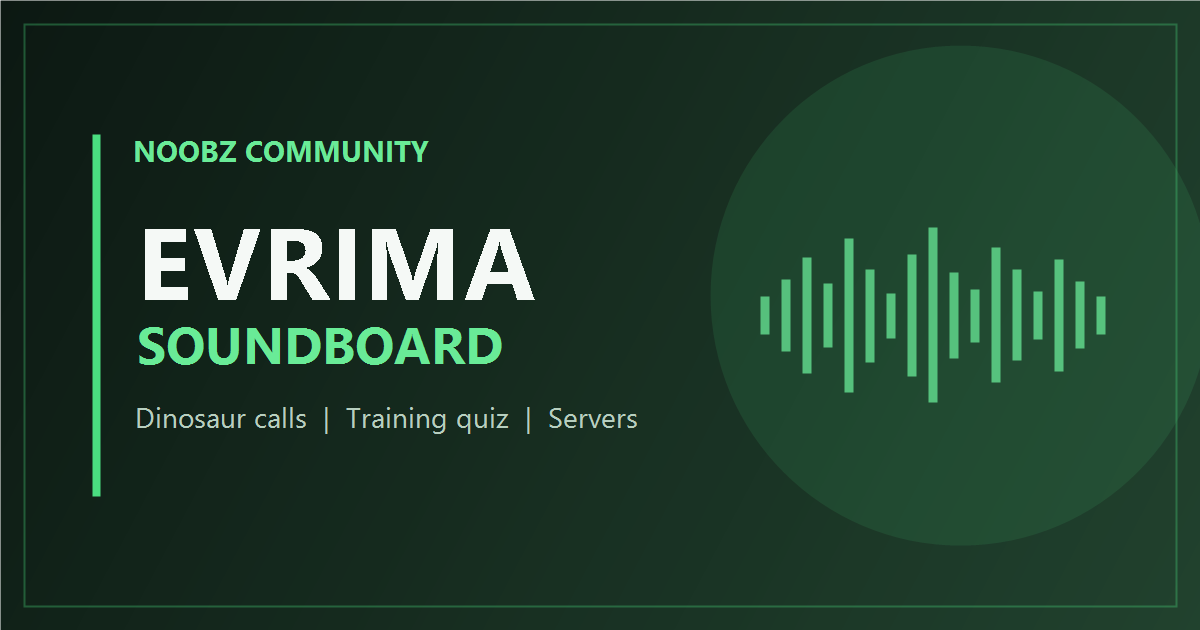
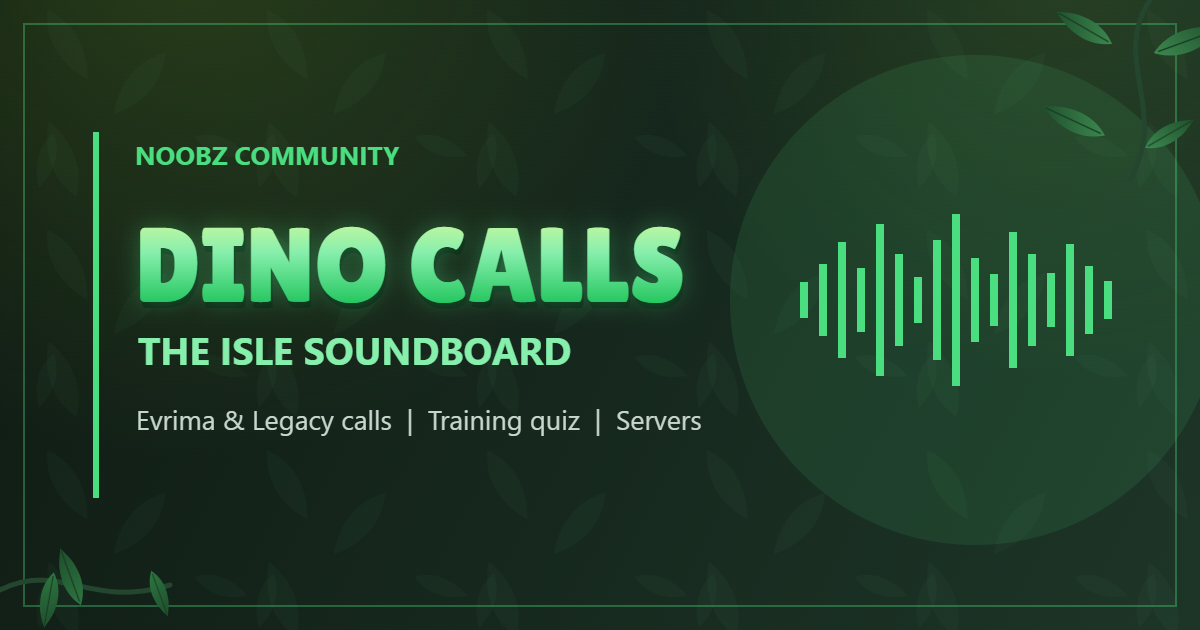
Add Legacy training quiz; new Dino Calls link preview image
- Legacy now has Soundboard / Training Quiz tabs like Evrima; the quiz screen
  is shared and switches title, groups (Herbivores/Carnivores/AI) and stages
  (Juvenile/Sub-Adult/Adult) to the active game
- Questions are picked species-first so dinos with many recorded calls
  (Legacy Rex has ~100) don't dominate; applies to both games
- Game and soundboard tabs are locked while a quiz runs; clear message when
  the chosen groups/stages have no calls
- og-image.png redrawn as "Dino Calls" in the jungle style

diff --git a/index.html b/index.html
@@ -49,7 +49,7 @@
         .game-tab:disabled { opacity: 0.4; cursor: not-allowed; }
         .game-section { display: none; flex-grow: 1; }
         .game-section.active { display: block; }
-        body.quiz-open:not(.legacy-open) .controls-bar { display: none; }
+        body.quiz-open .controls-bar { display: none; }
         body.legacy-open .evrima-only { display: none !important; }
 
         .tab-container { display: flex; gap: 10px; margin: 0 auto 20px; max-width: 1220px; width: 100%; }
@@ -431,7 +431,7 @@
     <button class="game-tab" id="game-legacy">Legacy</button>
 </div>
 
-<div class="tab-container evrima-only">
+<div class="tab-container">
     <button class="tab-btn active" id="tab-soundboard">Soundboard</button>
     <button class="tab-btn" id="tab-quiz">Training Quiz</button>
 </div>
@@ -483,10 +483,27 @@
     </div>
 </div>
 
+</div>
+
+<div id="legacy-game" class="game-section">
+    <div class="soundboard-grid" id="legacy-grid">
+        <div class="column-wrapper herb-column" id="legacy-herb-container">
+            <div class="column-title">Herbivores</div>
+        </div>
+        <div class="column-wrapper carn-column" id="legacy-carn-container">
+            <div class="column-title">Carnivores</div>
+        </div>
+        <div class="column-wrapper omni-column" id="legacy-ai-container">
+            <div class="column-title">AI</div>
+        </div>
+    </div>
+</div>
+
+<!-- Shared training quiz: configured for whichever game is active -->
 <div id="quiz-view" class="view-section">
     <div class="quiz-container">
         <div id="quiz-setup" class="quiz-setup">
-            <h2 style="color: #ffffff; font-size: 24px; text-transform: uppercase;">Evrima Call Training</h2>
+            <h2 id="quiz-title" style="color: #ffffff; font-size: 24px; text-transform: uppercase;">Evrima Call Training</h2>
             <p style="color: #728f80; margin-bottom: 10px;">Configure your training and press <strong>Start Quiz</strong> when ready.</p>
             <div class="quiz-setting-row">
                 <div class="quiz-setting">
@@ -509,19 +526,19 @@
             </div>
             <div class="quiz-setting-row" style="padding-top: 10px; border: none;">
                 <div class="quiz-setting">
-                    <span>Diets to Include</span>
+                    <span id="quiz-group-heading">Diets to Include</span>
                     <div class="checkbox-group">
-                        <label><input type="checkbox" id="toggle-herbs" checked> Herbivores</label>
-                        <label><input type="checkbox" id="toggle-carns" checked> Carnivores</label>
-                        <label><input type="checkbox" id="toggle-omnis" checked> Omnivores</label>
+                        <label><input type="checkbox" id="toggle-herbs" checked> <span id="quiz-group-0">Herbivores</span></label>
+                        <label><input type="checkbox" id="toggle-carns" checked> <span id="quiz-group-1">Carnivores</span></label>
+                        <label><input type="checkbox" id="toggle-omnis" checked> <span id="quiz-group-2">Omnivores</span></label>
                     </div>
                 </div>
                 <div class="quiz-setting">
                     <span>Stages to Include</span>
                     <div class="checkbox-group">
-                        <label><input type="checkbox" id="toggle-juvie" checked> Juvie (25%)</label>
-                        <label><input type="checkbox" id="toggle-sub" checked> Sub (50%)</label>
-                        <label><input type="checkbox" id="toggle-adult" checked> Adult (75%)</label>
+                        <label><input type="checkbox" id="toggle-juvie" checked> <span id="quiz-stage-0">Juvie (25%)</span></label>
+                        <label><input type="checkbox" id="toggle-sub" checked> <span id="quiz-stage-1">Sub (50%)</span></label>
+                        <label><input type="checkbox" id="toggle-adult" checked> <span id="quiz-stage-2">Adult (75%)</span></label>
                     </div>
                 </div>
             </div>
@@ -542,21 +559,6 @@
             <div id="final-score" class="score-text">0 / 10</div>
             <div id="final-pun" class="pun-text"></div>
             <button class="action-btn" onclick="resetQuizUI()">Play Again</button>
-        </div>
-    </div>
-</div>
-</div>
-
-<div id="legacy-game" class="game-section">
-    <div class="soundboard-grid" id="legacy-grid">
-        <div class="column-wrapper herb-column" id="legacy-herb-container">
-            <div class="column-title">Herbivores</div>
-        </div>
-        <div class="column-wrapper carn-column" id="legacy-carn-container">
-            <div class="column-title">Carnivores</div>
-        </div>
-        <div class="column-wrapper omni-column" id="legacy-ai-container">
-            <div class="column-title">AI</div>
         </div>
     </div>
 </div>
@@ -658,32 +660,40 @@
         saveSetting('darkMode', e.target.checked);
     });
 
+    // Evrima and Legacy are separate games, each with a Soundboard and a Training Quiz tab.
+    // The quiz screen is shared and reconfigured for whichever game is active.
+    let currentGame = 'evrima', currentTab = 'soundboard';
+
+    function render() {
+        const onQuiz = currentTab === 'quiz';
+        DOM.gameEvrima.classList.toggle('active', currentGame === 'evrima');
+        DOM.gameLegacy.classList.toggle('active', currentGame === 'legacy');
+        DOM.tabSoundboard.classList.toggle('active', !onQuiz);
+        DOM.tabQuiz.classList.toggle('active', onQuiz);
+        document.getElementById('evrima-game').classList.toggle('active', !onQuiz && currentGame === 'evrima');
+        document.getElementById('legacy-game').classList.toggle('active', !onQuiz && currentGame === 'legacy');
+        document.getElementById('quiz-view').classList.toggle('active', onQuiz);
+        document.body.classList.toggle('legacy-open', currentGame === 'legacy');
+        document.body.classList.toggle('quiz-open', onQuiz);
+        applyQuizConfig();
+    }
+
     function switchTab(tabName) {
-        if (isQuizActive && tabName === 'soundboard') {
-            alert("Finish your training first!");
-            return;
-        }
-        document.querySelectorAll('.tab-btn').forEach(btn => btn.classList.remove('active'));
-        if (tabName === 'soundboard') DOM.tabSoundboard.classList.add('active');
-        else DOM.tabQuiz.classList.add('active');
-        document.querySelectorAll('.view-section').forEach(view => view.classList.remove('active'));
-        document.getElementById(tabName + '-view').classList.add('active');
-        document.body.classList.toggle('quiz-open', tabName === 'quiz');
+        if (isQuizActive) return;
+        currentTab = tabName;
         stopAudio();
+        render();
     }
     DOM.tabSoundboard.addEventListener('click', () => switchTab('soundboard'));
     DOM.tabQuiz.addEventListener('click', () => switchTab('quiz'));
 
-    // Evrima and Legacy are separate soundboards; only one is ever shown
     function switchGame(game) {
         if (isQuizActive) return;
-        DOM.gameEvrima.classList.toggle('active', game === 'evrima');
-        DOM.gameLegacy.classList.toggle('active', game === 'legacy');
-        document.getElementById('evrima-game').classList.toggle('active', game === 'evrima');
-        document.getElementById('legacy-game').classList.toggle('active', game === 'legacy');
-        document.body.classList.toggle('legacy-open', game === 'legacy');
+        currentGame = game;
         stopAudio();
         if (game === 'legacy') loadLegacy();
+        resetQuizUI();
+        render();
         saveSetting('game', game);
     }
     DOM.gameEvrima.addEventListener('click', () => switchGame('evrima'));
@@ -854,18 +864,20 @@
     // [file type, button label, in-game key]
     const legacyCallTypes = [["Broadcast", "Broadcast", "1"], ["Attract", "Friendly", "2"], ["Threaten", "Threaten", "3"], ["Danger", "Danger", "4"], ["Generic", "Generic", "F"]];
 
-    let legacyLoaded = false;
-    async function loadLegacy() {
-        if (legacyLoaded) return;
-        legacyLoaded = true;
-        try {
-            const res = await fetch('audio/legacy/manifest.json');
-            if (!res.ok) throw new Error(res.status);
-            buildLegacyCards(await res.json());
-        } catch (err) {
-            legacyLoaded = false;
-            DOM.legacyGrid.insertAdjacentHTML('afterbegin', '<p class="load-error">Could not load the Legacy calls. Refresh the page to try again.</p>');
+    // Loads the manifest once; the soundboard and the quiz both use it
+    let legacyManifest = null, legacyLoading = null;
+    function loadLegacy() {
+        if (!legacyLoading) {
+            legacyLoading = fetch('audio/legacy/manifest.json')
+                .then(res => { if (!res.ok) throw new Error(res.status); return res.json(); })
+                .then(manifest => { legacyManifest = manifest; buildLegacyCards(manifest); return manifest; })
+                .catch(err => {
+                    legacyLoading = null;
+                    DOM.legacyGrid.insertAdjacentHTML('afterbegin', '<p class="load-error">Could not load the Legacy calls. Refresh the page to try again.</p>');
+                    return null;
+                });
         }
+        return legacyLoading;
     }
 
     function buildLegacyCards(manifest) {
@@ -898,42 +910,106 @@
         });
     }
 
-    if (savedSettings.game === 'legacy') switchGame('legacy');
-
     let currentQuizPool = [], currentQuestionIndex = 0, score = 0;
     let attemptsConfig = 3, currentAttemptsLeft = 3, isQuestionLocked = false, quizTimer = null;
 
-    function startQuiz() {
-        const activeDinos = [...(document.getElementById('toggle-herbs').checked ? dinos.herbs : []), ...(document.getElementById('toggle-carns').checked ? dinos.carns : []), ...(document.getElementById('toggle-omnis').checked ? dinos.omnis : [])];
-        const activeStages = [...(document.getElementById('toggle-juvie').checked ? ["25"] : []), ...(document.getElementById('toggle-sub').checked ? ["50"] : []), ...(document.getElementById('toggle-adult').checked ? ["75"] : [])];
-        if (activeDinos.length === 0 || activeStages.length === 0) return alert("Select at least one Diet and Stage!");
-        
-        isQuizActive = true;
-        DOM.tabSoundboard.disabled = true;
-        DOM.gameLegacy.disabled = true;
-
-        let possibleCalls = [];
-        
-        activeDinos.forEach(dinoItem => {
-            const dino = typeof dinoItem === 'string' ? dinoItem : dinoItem.name;
-            
-            activeStages.forEach(s => {
-                calls.forEach(c => {
-                    possibleCalls.push({ species: dino, file: `${dino} ${s} ${c} Call 1` });
-                    possibleCalls.push({ species: dino, file: `${dino} ${s} ${c} Call 2` });
-                });
-
-                if (typeof dinoItem === 'object' && dinoItem.specialCalls && dinoItem.specialCalls[s]) {
-                    dinoItem.specialCalls[s].forEach(sc => {
-                        possibleCalls.push({ species: dino, file: `${dino} ${s} ${sc.file}` });
+    // Per-game quiz setup. Each buildPool gets the three group and three stage checkbox states
+    // and returns every possible call as { species, file }.
+    const quizConfigs = {
+        evrima: {
+            title: 'Evrima Call Training',
+            groupHeading: 'Diets to Include',
+            groups: ['Herbivores', 'Carnivores', 'Omnivores'],
+            stages: ['Juvie (25%)', 'Sub (50%)', 'Adult (75%)'],
+            buildPool(groupOn, stageOn) {
+                const pool = [];
+                const groupDinos = [dinos.herbs, dinos.carns, dinos.omnis].filter((g, i) => groupOn[i]).flat();
+                const stageNums = ['25', '50', '75'].filter((s, i) => stageOn[i]);
+                groupDinos.forEach(dinoItem => {
+                    const dino = typeof dinoItem === 'string' ? dinoItem : dinoItem.name;
+                    stageNums.forEach(s => {
+                        calls.forEach(c => {
+                            pool.push({ species: dino, file: `${dino} ${s} ${c} Call 1` });
+                            pool.push({ species: dino, file: `${dino} ${s} ${c} Call 2` });
+                        });
+                        if (typeof dinoItem === 'object' && dinoItem.specialCalls && dinoItem.specialCalls[s]) {
+                            dinoItem.specialCalls[s].forEach(sc => pool.push({ species: dino, file: `${dino} ${s} ${sc.file}` }));
+                        }
                     });
-                }
-            });
-        });
-        
+                });
+                return pool;
+            }
+        },
+        legacy: {
+            title: 'Legacy Call Training',
+            groupHeading: 'Groups to Include',
+            groups: ['Herbivores', 'Carnivores', 'AI'],
+            stages: ['Juvenile', 'Sub-Adult', 'Adult'],
+            buildPool(groupOn, stageOn) {
+                const pool = [];
+                const diets = ['herb', 'carn', 'ai'].filter((d, i) => groupOn[i]);
+                const stageKeys = ['Juvenile', 'Subadult', 'Adult'].filter((s, i) => stageOn[i]);
+                Object.keys(legacyManifest || {}).forEach(folder => {
+                    const [name, , diet] = legacySpecies[folder] || [folder, '', 'carn'];
+                    if (!diets.includes(diet)) return;
+                    stageKeys.forEach(stage => {
+                        const counts = legacyManifest[folder][stage];
+                        if (!counts) return;
+                        Object.keys(counts).forEach(type => {
+                            for (let i = 1; i <= counts[type]; i++) pool.push({ species: name, file: `legacy/${folder} ${stage} ${type} ${i}` });
+                        });
+                    });
+                });
+                return pool;
+            }
+        }
+    };
+
+    function applyQuizConfig() {
+        const cfg = quizConfigs[currentGame];
+        document.getElementById('quiz-title').textContent = cfg.title;
+        document.getElementById('quiz-group-heading').textContent = cfg.groupHeading;
+        cfg.groups.forEach((label, i) => { document.getElementById(`quiz-group-${i}`).textContent = label; });
+        cfg.stages.forEach((label, i) => { document.getElementById(`quiz-stage-${i}`).textContent = label; });
+    }
+
+    // Pick questions species-first so a dino with many recorded calls (e.g. Legacy Rex) isn't over-represented
+    function pickQuestions(pool, length) {
+        const bySpecies = {};
+        pool.forEach(c => (bySpecies[c.species] = bySpecies[c.species] || []).push(c));
+        Object.values(bySpecies).forEach(shuffle);
+        const picked = [];
+        while (picked.length < length) {
+            const remaining = shuffle(Object.keys(bySpecies).filter(s => bySpecies[s].length));
+            if (remaining.length === 0) break;
+            for (const s of remaining) {
+                if (picked.length >= length) break;
+                picked.push(bySpecies[s].pop());
+            }
+        }
+        return shuffle(picked);
+    }
+
+    function setQuizLock(locked) {
+        isQuizActive = locked;
+        DOM.tabSoundboard.disabled = locked;
+        DOM.gameEvrima.disabled = locked;
+        DOM.gameLegacy.disabled = locked;
+    }
+
+    async function startQuiz() {
+        const groupOn = ['toggle-herbs', 'toggle-carns', 'toggle-omnis'].map(id => document.getElementById(id).checked);
+        const stageOn = ['toggle-juvie', 'toggle-sub', 'toggle-adult'].map(id => document.getElementById(id).checked);
+        if (!groupOn.includes(true) || !stageOn.includes(true)) return alert("Select at least one group and one stage!");
+        if (currentGame === 'legacy' && !(await loadLegacy())) return alert("Couldn't load the Legacy calls. Refresh the page and try again.");
+
+        const possibleCalls = quizConfigs[currentGame].buildPool(groupOn, stageOn);
+        if (possibleCalls.length === 0) return alert("No calls match those choices. Try adding another stage or group.");
+
+        setQuizLock(true);
         DOM.guessGrid.innerHTML = '';
-        
-        const activeNames = activeDinos.map(d => typeof d === 'string' ? d : d.name);
+
+        const activeNames = [...new Set(possibleCalls.map(c => c.species))];
         activeNames.sort().forEach(dino => {
             const btn = document.createElement('button');
             btn.className = 'guess-btn';
@@ -947,7 +1023,7 @@
         
         let length = Math.min(parseInt(document.getElementById('quizLength').value), possibleCalls.length);
         attemptsConfig = parseInt(document.getElementById('quizAttempts').value);
-        currentQuizPool = shuffle([...possibleCalls]).slice(0, length);
+        currentQuizPool = pickQuestions(possibleCalls, length);
         currentQuestionIndex = 0;
         score = 0;
         loadQuestion();
@@ -1015,9 +1091,7 @@
     }
 
     function showResults() {
-        isQuizActive = false;
-        DOM.tabSoundboard.disabled = false;
-        DOM.gameLegacy.disabled = false;
+        setQuizLock(false);
         DOM.quizActive.style.display = 'none';
         DOM.quizResults.style.display = 'flex';
         DOM.finalScore.innerText = `${score} / ${currentQuizPool.length}`;
@@ -1035,9 +1109,7 @@
     function quitQuiz() {
         clearTimeout(quizTimer);
         stopAudio();
-        isQuizActive = false;
-        DOM.tabSoundboard.disabled = false;
-        DOM.gameLegacy.disabled = false;
+        setQuizLock(false);
         DOM.quizActive.style.display = 'none';
         resetQuizUI();
     }
@@ -1046,6 +1118,8 @@
         DOM.quizResults.style.display = 'none';
         DOM.quizSetup.style.display = 'flex';
     }
+
+    if (savedSettings.game === 'legacy') switchGame('legacy');
 </script>
 </body>
 </html>
